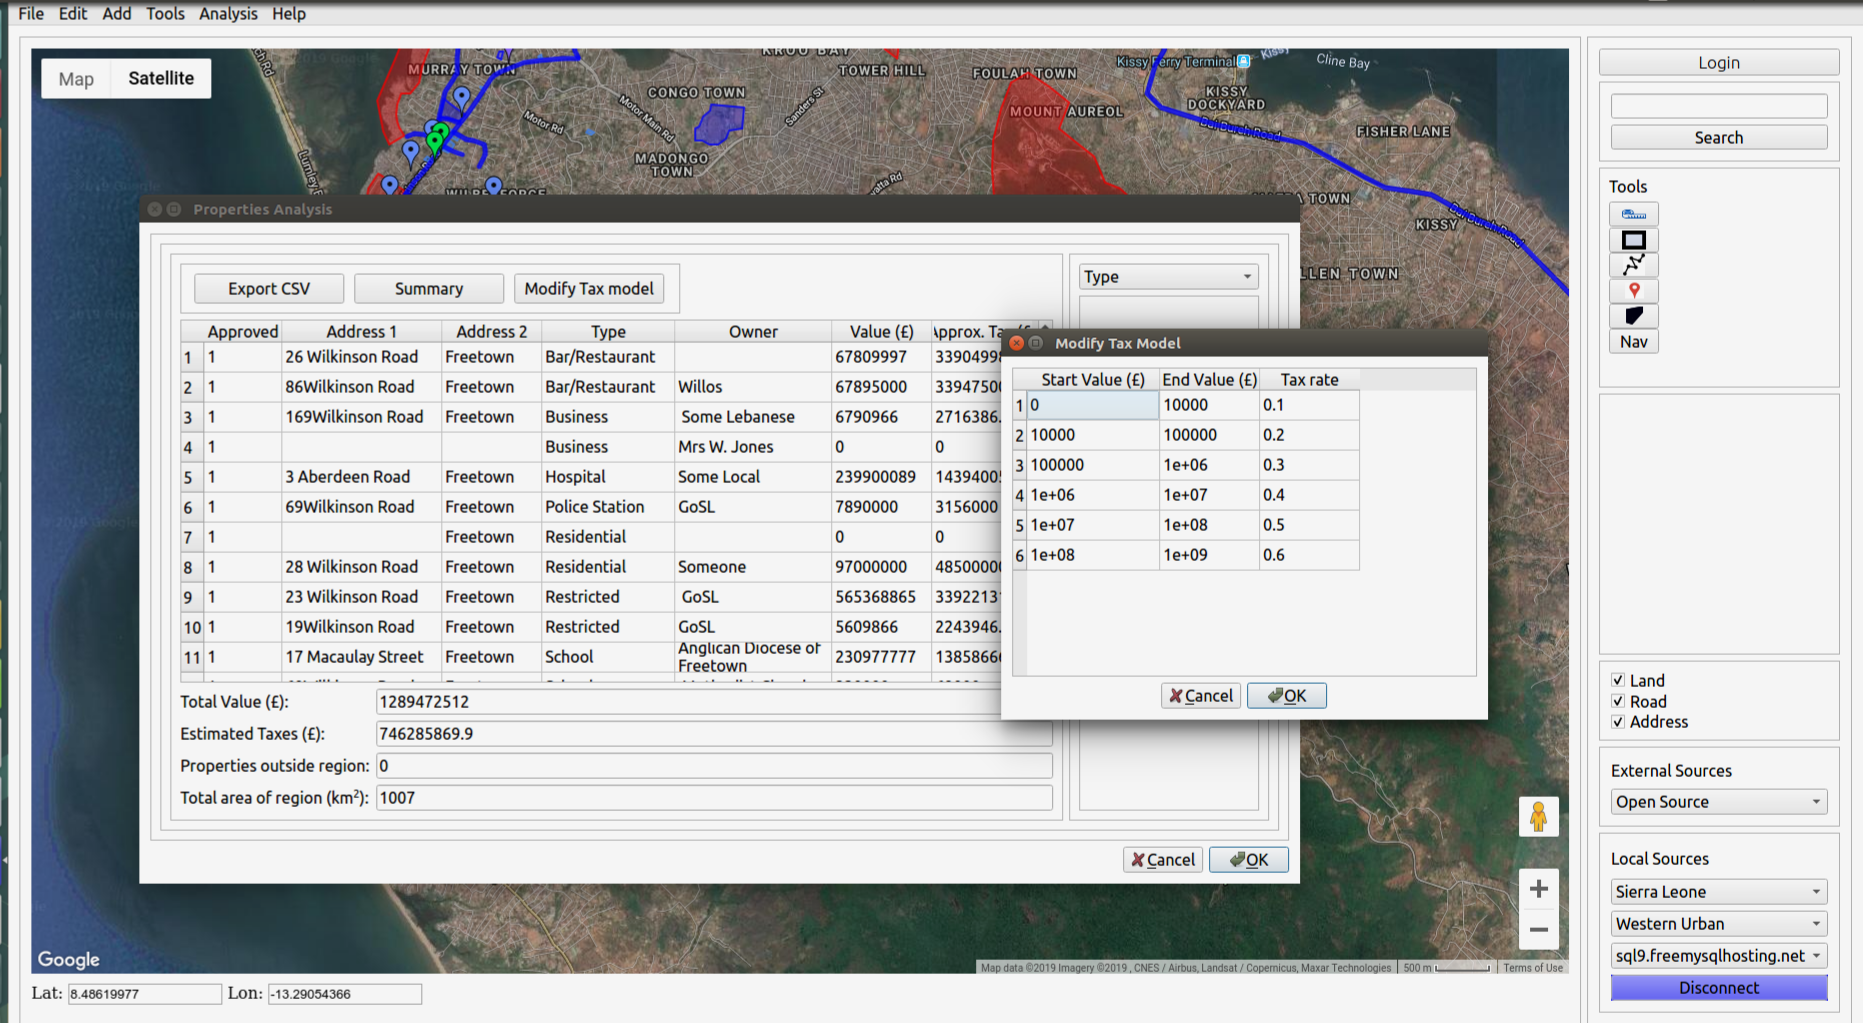
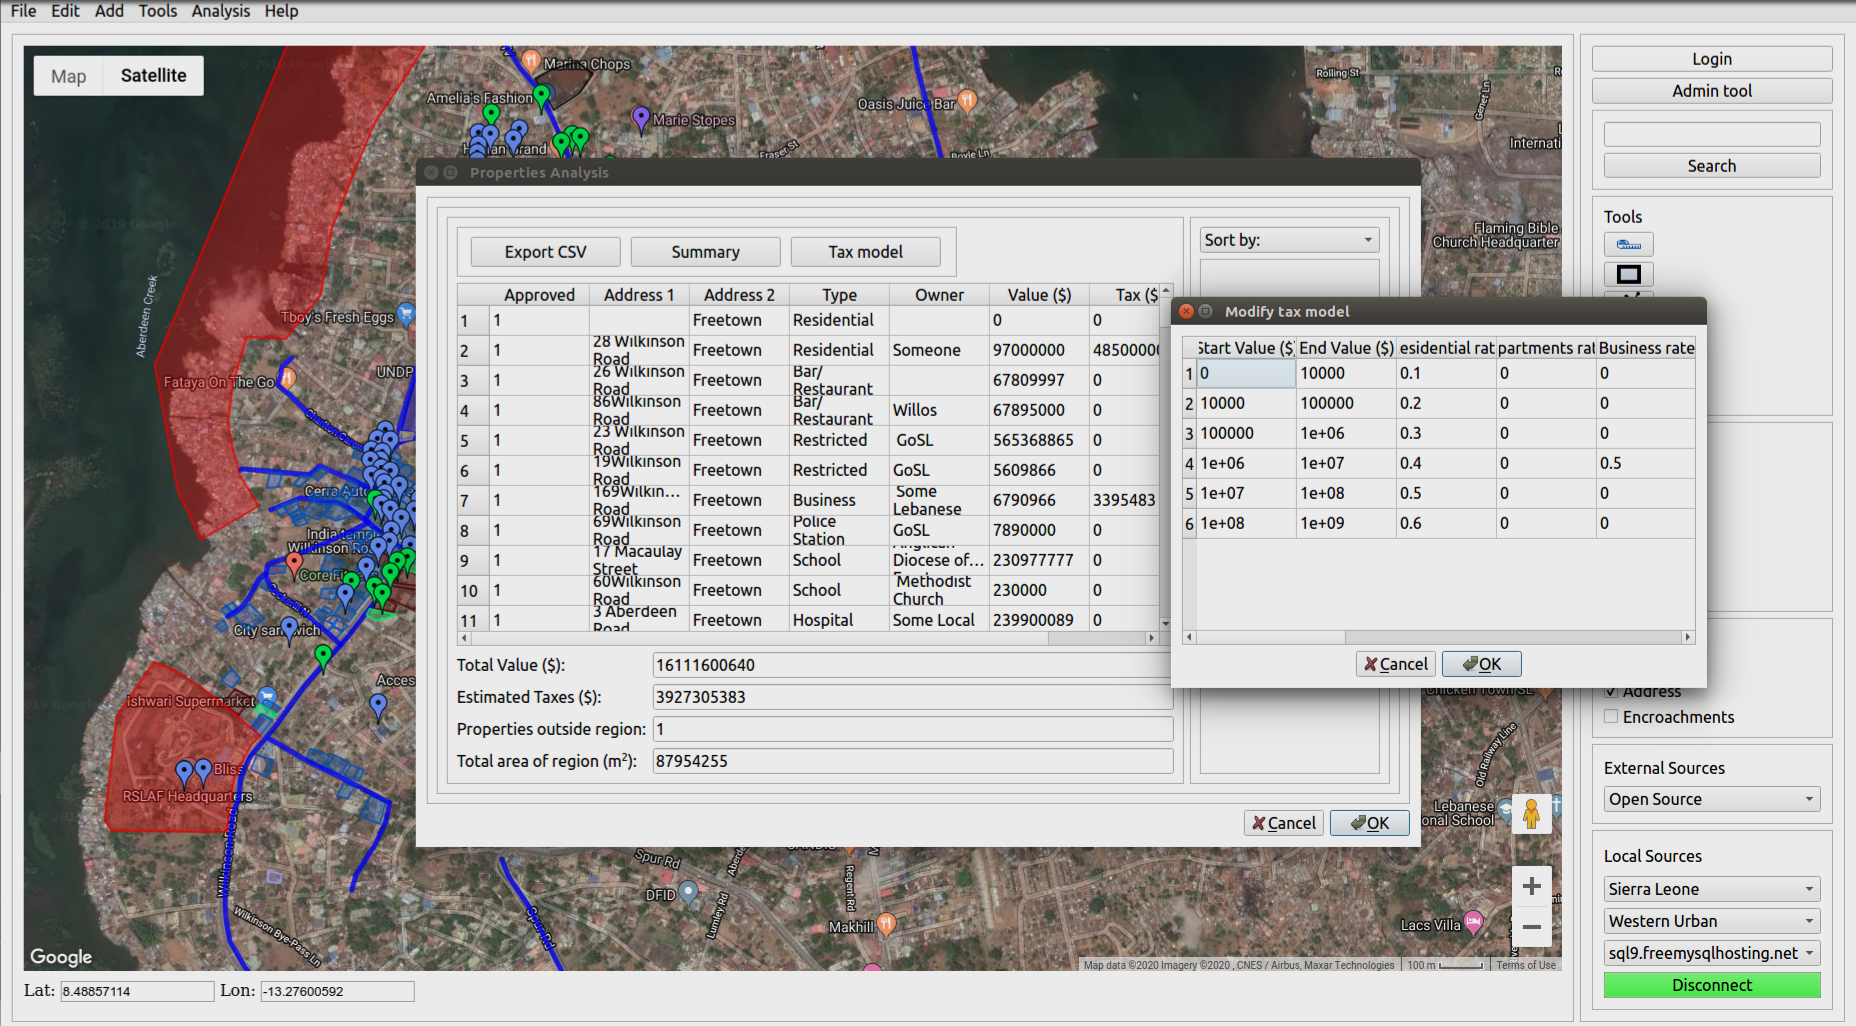
changed analytics images

diff --git a/_posts/2019-05-01-land_digitisation.md b/_posts/2019-05-01-land_digitisation.md
@@ -17,7 +17,9 @@ In the developing world, this is a problem and has lead to several conflicts. We
     * Lands with overlapping geometric points (land to land encroachment)
     * Street encroachments of lands
 * Terrain information for each land
-* Only people with administrative access (government officials) can approve or disapprove land information
+* Only people with administrative access (government officials) can approve and/or make changes
+* Historical record of every change
+* Statistical analysis of land distribution
 <br/>
 <br/>
 
